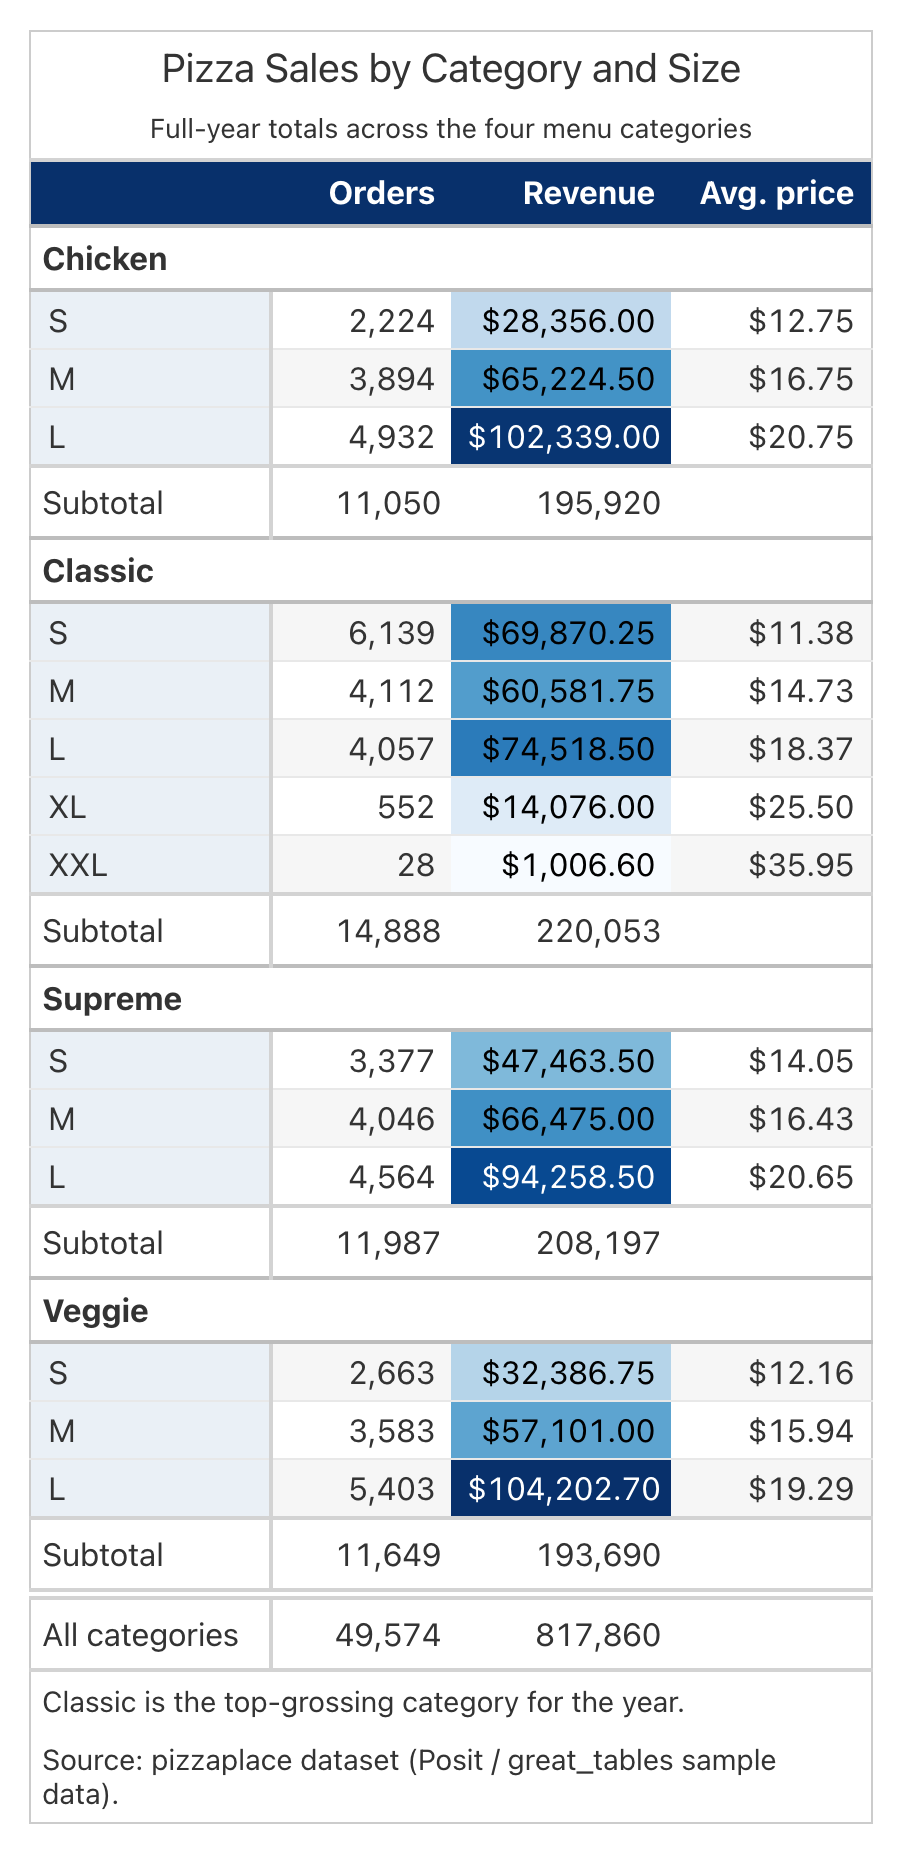
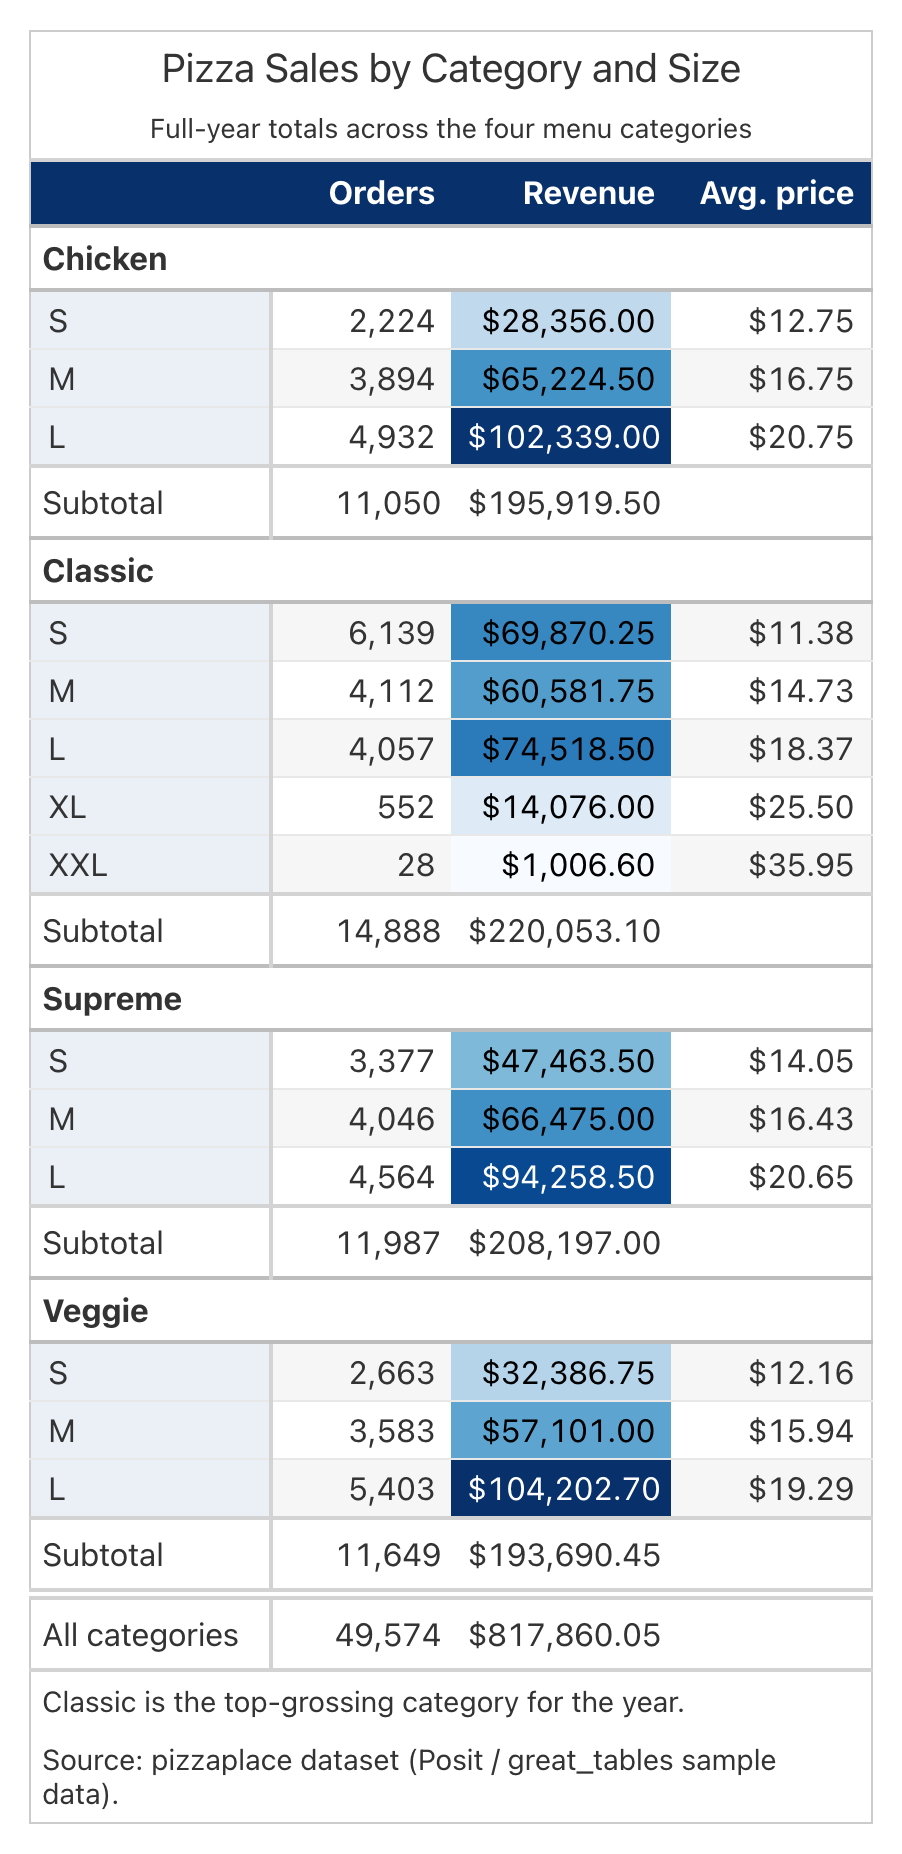
fix(examples): keep currency formatting on summary_stats subtotal/grand-total
The Revenue subtotal and grand-total rows lost their $ formatting and got
silently rounded (e.g. "195,920" instead of "$195,919.50"), reading as a
count next to the properly-formatted $28,356.00-style body cells and the
same-magnitude Orders total.

summary_rows()/grand_summary_rows() do raise NotImplementedError if you
pass columns= to scope fmt= to specific columns in one call, but that
narrow limitation doesn't mean per-column summary formatting is
impossible, as the old comment claimed. The actual workaround: have the
aggregation function itself return an already-formatted string per
column (plain comma-grouped integer for orders, "$12,345.67"-style for
revenue) and drop fmt= entirely -- great_tables renders a pre-formatted
string as literal text without re-formatting it. Verified this behavior
with a standalone repro before applying it here. Also drops the now-
unused `vals` import.

diff --git a/.claude/skills/great-tables-ci/assets/examples/summary_stats/summary_stats.py b/.claude/skills/great-tables-ci/assets/examples/summary_stats/summary_stats.py
@@ -5,7 +5,7 @@ Story: Per-category, per-size sales totals with subtotals per category
        and a grand total at the bottom.
 """
 import pandas as pd
-from great_tables import GT, loc, style, vals
+from great_tables import GT, loc, style
 
 df = pd.read_csv("data/pizzaplace.csv")
 
@@ -54,30 +54,32 @@ gt = (
         autocolor_text=True,
     )
     # Per-category subtotal — the story this archetype exists to demonstrate.
-    # fmt= applies one formatter to every summary cell (great_tables does not
-    # support per-column summary formats), so both columns render as
-    # whole-number, comma-separated counts here; the header still says
-    # "Revenue" so the $ omission on this one row reads as a rounded total,
-    # not a unit change.
+    # summary_rows()/grand_summary_rows() raise NotImplementedError if you pass
+    # columns= to scope a fmt= call to specific columns in one call, so a
+    # single shared formatter can't treat "orders" and "revenue" differently.
+    # The workaround: have the aggregation function itself return an
+    # already-formatted string per column (matching the body's currency
+    # style for revenue, plain comma-grouped integers for orders) and omit
+    # fmt= entirely — great_tables renders a pre-formatted string as literal
+    # text without re-formatting it.
     .summary_rows(
         groups=list(agg["type"].unique()),
         fns={"Subtotal": lambda d: pd.Series({
-            "orders": int(d["orders"].sum()),
-            "revenue": float(d["revenue"].sum()),
+            "orders": f"{int(d['orders'].sum()):,}",
+            "revenue": f"${float(d['revenue'].sum()):,.2f}",
         })},
-        fmt=lambda x: vals.fmt_integer(x, use_seps=True),
         missing_text="",
     )
     # Grand summary row at the bottom — the headline number a manager carries
     # away. Callable form returning pd.Series is the pandas escape; pl.col
     # expressions only work on polars-backed tables. avg_price is omitted
-    # because a mean-of-means is not meaningful.
+    # because a mean-of-means is not meaningful. Same pre-formatted-string
+    # workaround as the subtotal rows above, so the grand total keeps its $.
     .grand_summary_rows(
         fns={"All categories": lambda d: pd.Series({
-            "orders": int(d["orders"].sum()),
-            "revenue": float(d["revenue"].sum()),
+            "orders": f"{int(d['orders'].sum()):,}",
+            "revenue": f"${float(d['revenue'].sum()):,.2f}",
         })},
-        fmt=lambda x: vals.fmt_integer(x, use_seps=True),
         missing_text="",
     )
     # Group header emphasis: bold weight + structural rules, never a fill —

diff --git a/.claude/skills/great-tables/assets/examples/summary_stats/summary_stats.py b/.claude/skills/great-tables/assets/examples/summary_stats/summary_stats.py
@@ -5,7 +5,7 @@ Story: Per-category, per-size sales totals with subtotals per category
        and a grand total at the bottom.
 """
 import pandas as pd
-from great_tables import GT, loc, style, vals
+from great_tables import GT, loc, style
 
 df = pd.read_csv("data/pizzaplace.csv")
 
@@ -54,30 +54,32 @@ gt = (
         autocolor_text=True,
     )
     # Per-category subtotal — the story this archetype exists to demonstrate.
-    # fmt= applies one formatter to every summary cell (great_tables does not
-    # support per-column summary formats), so both columns render as
-    # whole-number, comma-separated counts here; the header still says
-    # "Revenue" so the $ omission on this one row reads as a rounded total,
-    # not a unit change.
+    # summary_rows()/grand_summary_rows() raise NotImplementedError if you pass
+    # columns= to scope a fmt= call to specific columns in one call, so a
+    # single shared formatter can't treat "orders" and "revenue" differently.
+    # The workaround: have the aggregation function itself return an
+    # already-formatted string per column (matching the body's currency
+    # style for revenue, plain comma-grouped integers for orders) and omit
+    # fmt= entirely — great_tables renders a pre-formatted string as literal
+    # text without re-formatting it.
     .summary_rows(
         groups=list(agg["type"].unique()),
         fns={"Subtotal": lambda d: pd.Series({
-            "orders": int(d["orders"].sum()),
-            "revenue": float(d["revenue"].sum()),
+            "orders": f"{int(d['orders'].sum()):,}",
+            "revenue": f"${float(d['revenue'].sum()):,.2f}",
         })},
-        fmt=lambda x: vals.fmt_integer(x, use_seps=True),
         missing_text="",
     )
     # Grand summary row at the bottom — the headline number a manager carries
     # away. Callable form returning pd.Series is the pandas escape; pl.col
     # expressions only work on polars-backed tables. avg_price is omitted
-    # because a mean-of-means is not meaningful.
+    # because a mean-of-means is not meaningful. Same pre-formatted-string
+    # workaround as the subtotal rows above, so the grand total keeps its $.
     .grand_summary_rows(
         fns={"All categories": lambda d: pd.Series({
-            "orders": int(d["orders"].sum()),
-            "revenue": float(d["revenue"].sum()),
+            "orders": f"{int(d['orders'].sum()):,}",
+            "revenue": f"${float(d['revenue'].sum()):,.2f}",
         })},
-        fmt=lambda x: vals.fmt_integer(x, use_seps=True),
         missing_text="",
     )
     # Group header emphasis: bold weight + structural rules, never a fill —
